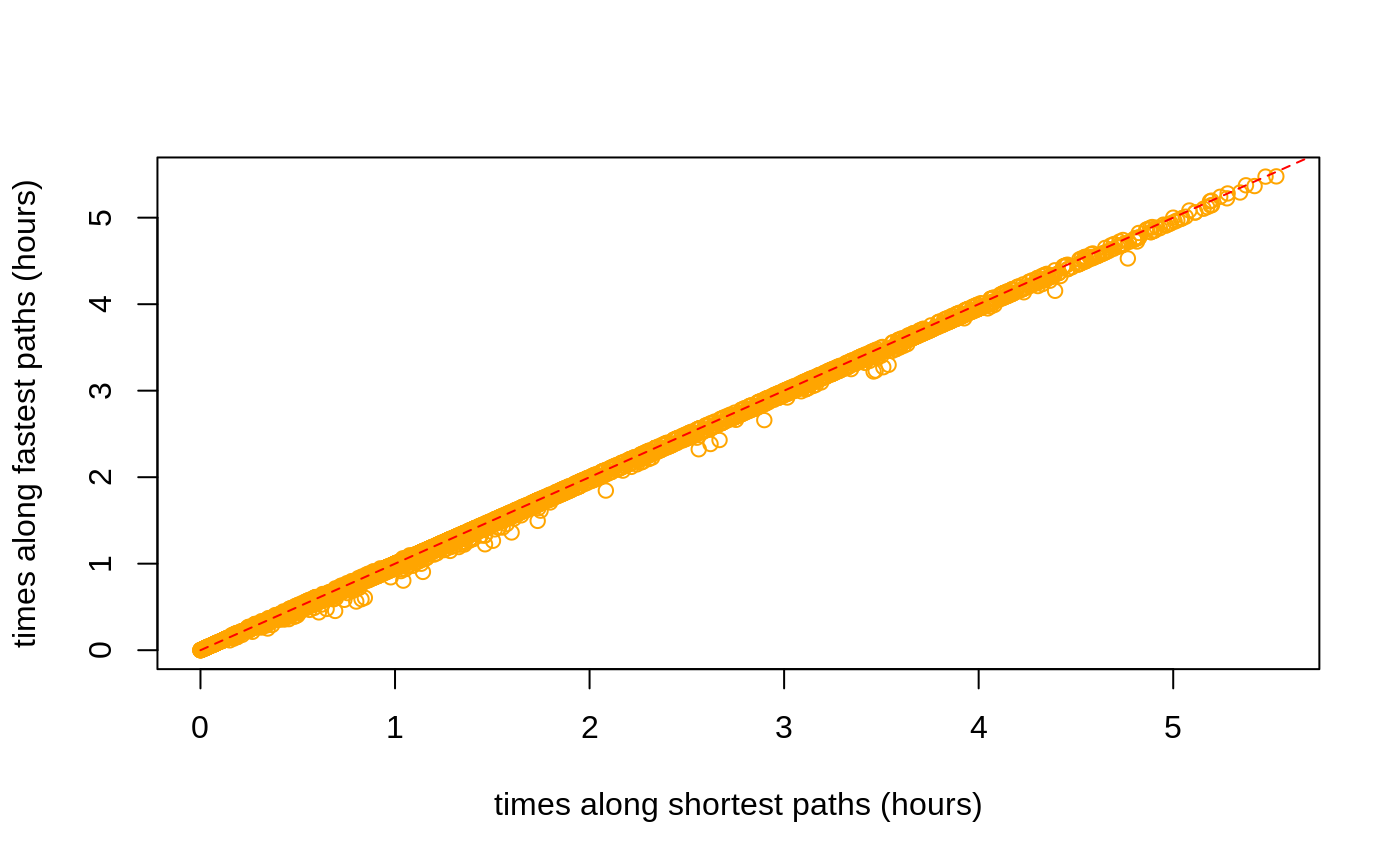
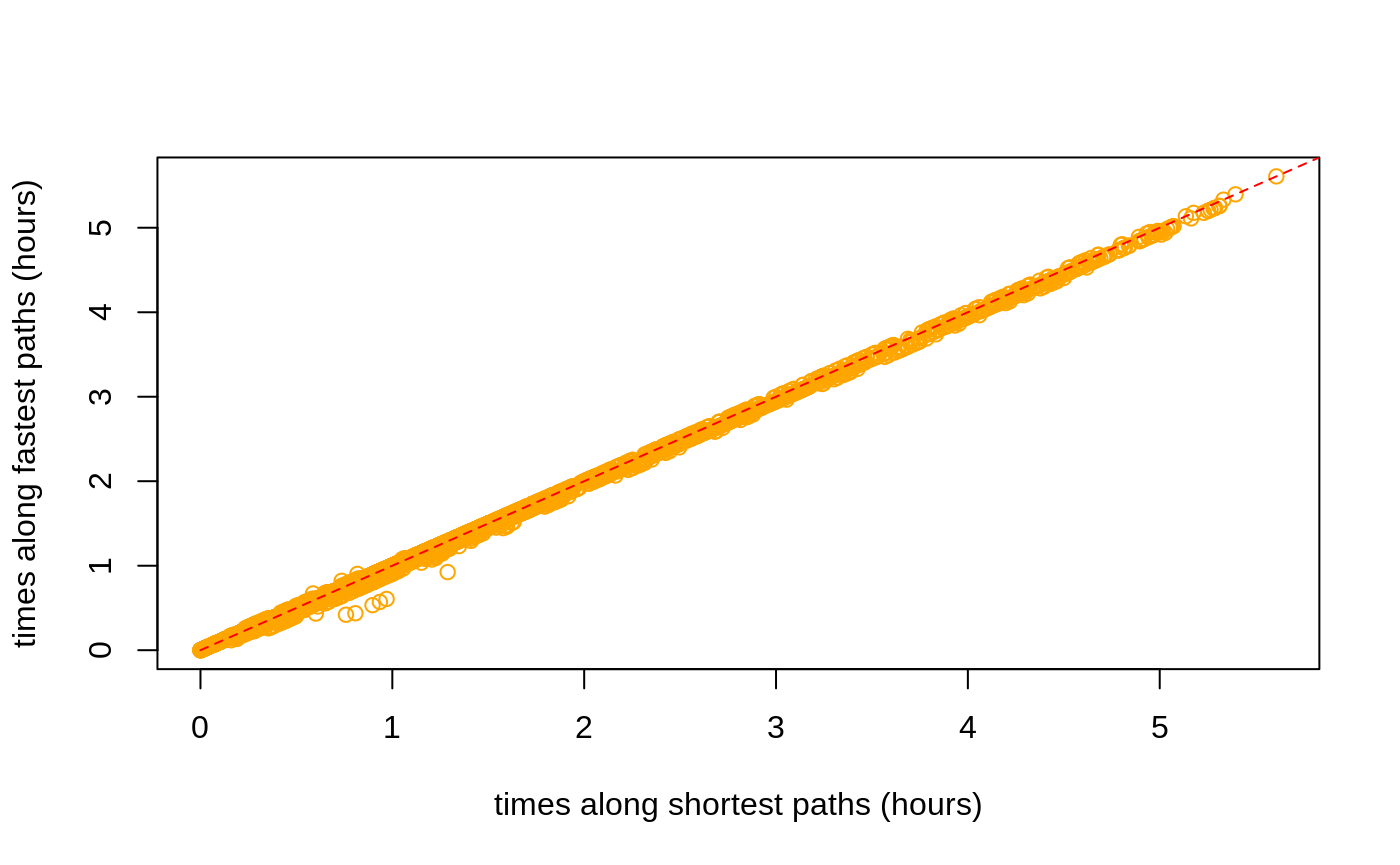
Built site for dodgr: 0.2.1.1@aa2d3c2

diff --git a/articles/dodgr.html b/articles/dodgr.html
@@ -70,7 +70,7 @@
       <h1>dodgr</h1>
                         <h4 class="author">Mark Padgham</h4>
             
-            <h4 class="date">2019-09-18</h4>
+            <h4 class="date">2019-09-22</h4>
       
       <small class="dont-index">Source: <a href="https://github.com/ATFutures/dodgr/blob/master/vignettes/dodgr.Rmd"><code>vignettes/dodgr.Rmd</code></a></small>
       <div class="hidden name"><code>dodgr.Rmd</code></div>
@@ -423,31 +423,31 @@ Figure 2: A <strong>dual</strong>-weighted, directed graph in which the weights 
 <p>The comparisons are actually made on a randomly selected sub-component of the graph containing a defined number of vertices (with a default of 1,000, or the entire graph if it contains fewer than 1,000 vertices).</p>
 <div class="sourceCode" id="cb76"><pre class="sourceCode r"><code class="sourceCode r"><a class="sourceLine" id="cb76-1" data-line-number="1"><span class="kw"><a href="../reference/compare_heaps.html">compare_heaps</a></span> (graph, <span class="dt">nverts =</span> <span class="dv">1000</span>, <span class="dt">replications =</span> <span class="dv">1</span>)</a></code></pre></div>
 <pre><code>##                                                                                   test
+## 11        d &lt;- dodgr_dists(graph_contracted, from = from_id, to = to_id, heap = "set")
 ## 6       d &lt;- dodgr_dists(graph_contracted, from = from_id, to = to_id, heap = "BHeap")
+## 7       d &lt;- dodgr_dists(graph_contracted, from = from_id, to = to_id, heap = "FHeap")
 ## 8     d &lt;- dodgr_dists(graph_contracted, from = from_id, to = to_id, heap = "TriHeap")
 ## 9  d &lt;- dodgr_dists(graph_contracted, from = from_id, to = to_id, heap = "TriHeapExt")
 ## 10     d &lt;- dodgr_dists(graph_contracted, from = from_id, to = to_id, heap = "Heap23")
-## 11        d &lt;- dodgr_dists(graph_contracted, from = from_id, to = to_id, heap = "set")
-## 7       d &lt;- dodgr_dists(graph_contracted, from = from_id, to = to_id, heap = "FHeap")
 ## 1                  d &lt;- dodgr_dists(graph, from = from_id, to = to_id, heap = "BHeap")
 ## 12                  d &lt;- igraph::distances(igr, v = from_id, to = to_id, mode = "out")
 ## 2                  d &lt;- dodgr_dists(graph, from = from_id, to = to_id, heap = "FHeap")
-## 5                 d &lt;- dodgr_dists(graph, from = from_id, to = to_id, heap = "Heap23")
 ## 3                d &lt;- dodgr_dists(graph, from = from_id, to = to_id, heap = "TriHeap")
 ## 4             d &lt;- dodgr_dists(graph, from = from_id, to = to_id, heap = "TriHeapExt")
+## 5                 d &lt;- dodgr_dists(graph, from = from_id, to = to_id, heap = "Heap23")
 ##    replications elapsed relative user.self sys.self user.child sys.child
-## 6             1   0.003    1.000     0.003        0          0         0
-## 8             1   0.003    1.000     0.004        0          0         0
-## 9             1   0.003    1.000     0.003        0          0         0
-## 10            1   0.003    1.000     0.005        0          0         0
 ## 11            1   0.003    1.000     0.004        0          0         0
-## 7             1   0.004    1.333     0.004        0          0         0
-## 1             1   0.010    3.333     0.013        0          0         0
-## 12            1   0.010    3.333     0.011        0          0         0
-## 2             1   0.013    4.333     0.021        0          0         0
-## 5             1   0.014    4.667     0.023        0          0         0
-## 3             1   0.015    5.000     0.024        0          0         0
-## 4             1   0.015    5.000     0.015        0          0         0</code></pre>
+## 6             1   0.004    1.333     0.004        0          0         0
+## 7             1   0.004    1.333     0.005        0          0         0
+## 8             1   0.004    1.333     0.006        0          0         0
+## 9             1   0.004    1.333     0.005        0          0         0
+## 10            1   0.004    1.333     0.005        0          0         0
+## 1             1   0.011    3.667     0.017        0          0         0
+## 12            1   0.015    5.000     0.015        0          0         0
+## 2             1   0.017    5.667     0.028        0          0         0
+## 3             1   0.020    6.667     0.033        0          0         0
+## 4             1   0.021    7.000     0.021        0          0         0
+## 5             1   0.021    7.000     0.033        0          0         0</code></pre>
 <p>The key column of that <code>data.frame</code> is <code>relative</code>, which quantifies the relative performance of each test in relation to the best which is given a score of 1. <code>dodgr</code> using the default <code>heap = "BHeap"</code>, which is a binary heap priority queue, performs faster than <a href="https://igraph.org"><code>igraph</code></a> <span class="citation">(Csardi and Nepusz 2006)</span> for these graphs. Different kind of graphs will perform differently with different priority queue structures, and this function enables users to empirically discern the optimal heap for their kind of graph.</p>
 <p>Note, however, that this is not an entirely fair comparison, because <code>dodgr</code> calculates dual-weighted distances, whereas <a href="https://igraph.org"><code>igraph</code></a>—and indeed all other <strong>R</strong> packages—only directly calculate distances based on a single set of weights. Implementing dual-weighted routing in these cases requires explicitly re-tracing all paths and summing the second set of weights along each path. A time comparison in that case would be very strongly in favour of <code>dodgr</code>. Moreover, <code>dodgr</code> can convert graphs to contracted form through removing redundant vertices, as detailed in the following section. Doing so greatly improves performance with respect to <a href="https://igraph.org"><code>igraph</code></a>.</p>
 <p>For those wishing to do explicit comparisons themselves, the following code generates the <a href="https://igraph.org"><code>igraph</code></a> equivalent of <a href="https://atfutures.github.io/dodgr/reference/dodgr_distances.html"><code><a href="../reference/dodgr_distances.html">dodgr_distances()</a></code></a>, although of course for single-weighted graphs only:</p>
@@ -482,10 +482,10 @@ Figure 3: <strong>(A)</strong> Vertex#2 is redundant for routing calculations fr
 <a class="sourceLine" id="cb84-5" data-line-number="5">                       d2 &lt;-<span class="st"> </span><span class="kw"><a href="../reference/dodgr_dists.html">dodgr_dists</a></span> (graph, <span class="dt">from =</span> from, <span class="dt">to =</span> to),</a>
 <a class="sourceLine" id="cb84-6" data-line-number="6">                       <span class="dt">replications =</span> <span class="dv">2</span>)</a></code></pre></div>
 <pre><code>##                                             test replications elapsed
-## 2 d2 &lt;- dodgr_dists(graph, from = from, to = to)            2   0.044
-## 1   d2 &lt;- dodgr_dists(grc, from = from, to = to)            2   0.009
+## 2 d2 &lt;- dodgr_dists(graph, from = from, to = to)            2   0.043
+## 1   d2 &lt;- dodgr_dists(grc, from = from, to = to)            2   0.008
 ##   relative user.self sys.self user.child sys.child
-## 2    4.889     0.063        0          0         0
+## 2    5.375     0.062        0          0         0
 ## 1    1.000     0.011        0          0         0</code></pre>
 <p>And contracting the graph has a similar effect of speeding up pairwise routing between these 100 points. All routing algorithms scale non-linearly with size, and relative improvements in efficiency will be even greater for larger graphs.</p>
 <div id="routing-on-contracted-graphs" class="section level2">
@@ -498,11 +498,11 @@ Figure 3: <strong>(A)</strong> Vertex#2 is redundant for routing calculations fr
 <pre><code>## [1] 672</code></pre>
 <div class="sourceCode" id="cb88"><pre class="sourceCode r"><code class="sourceCode r"><a class="sourceLine" id="cb88-1" data-line-number="1">verts &lt;-<span class="st"> </span><span class="kw"><a href="https://rdrr.io/r/base/sample.html">sample</a></span> (<span class="kw"><a href="../reference/dodgr_vertices.html">dodgr_vertices</a></span> (graph)<span class="op">$</span>id, <span class="dt">size =</span> <span class="dv">100</span>)</a>
 <a class="sourceLine" id="cb88-2" data-line-number="2"><span class="kw"><a href="https://rdrr.io/r/utils/head.html">head</a></span> (verts) <span class="co"># a character vector</span></a></code></pre></div>
-<pre><code>## [1] "2398957642" "977472672"  "3544918735" "2398957672" "1143452081"
-## [6] "4474520384"</code></pre>
+<pre><code>## [1] "339318498"  "977472618"  "980499593"  "1376768565" "977473148" 
+## [6] "2398957887"</code></pre>
 <div class="sourceCode" id="cb90"><pre class="sourceCode r"><code class="sourceCode r"><a class="sourceLine" id="cb90-1" data-line-number="1">grc &lt;-<span class="st"> </span><span class="kw"><a href="../reference/dodgr_contract_graph.html">dodgr_contract_graph</a></span> (graph, verts)</a>
 <a class="sourceLine" id="cb90-2" data-line-number="2"><span class="kw"><a href="https://rdrr.io/r/base/nrow.html">nrow</a></span> (grc)</a></code></pre></div>
-<pre><code>## [1] 855</code></pre>
+<pre><code>## [1] 836</code></pre>
 <p>Retaining the nominated vertices yields a graph with considerably more edges than the fully contracted graph excluding these vertices. The <a href="https://atfutures.github.io/dodgr/reference/dodgr_distances.html"><code><a href="../reference/dodgr_distances.html">dodgr_distances()</a></code></a> function can be applied to the latter graph to obtain accurate distances precisely routed between these points, yet using the speed advantages of graph contraction.</p>
 </div>
 </div>
@@ -543,41 +543,24 @@ Figure 3: <strong>(A)</strong> Vertex#2 is redundant for routing calculations fr
 <pre><code>## [1] 10</code></pre>
 <p>The result (<code>dp</code>) is a list of 10 items, each of which contains 5 vectors. An example is,</p>
 <div class="sourceCode" id="cb97"><pre class="sourceCode r"><code class="sourceCode r"><a class="sourceLine" id="cb97-1" data-line-number="1">dp [[<span class="dv">1</span>]] [[<span class="dv">1</span>]]</a></code></pre></div>
-<pre><code>##   [1] "3921512069" "3921512075" "3921512070" "3921512068" "2627428643"
-##   [6] "2627428645" "2627428641" "2627428646" "2627428638" "2627428651"
-##  [11] "2627430653" "2627428637" "2627428647" "2627428629" "2627428627"
-##  [16] "2627428628" "2627428631" "2627428633" "2627428625" "1143452404"
-##  [21] "1143452283" "5351394648" "1143452205" "5351394647" "2627430641"
-##  [26] "5351394646" "1143452459" "5351394645" "1143452325" "1143452160"
-##  [31] "1143452081" "1143452400" "1143452281" "1143452128" "1143452546"
-##  [36] "2718034071" "1143452348" "1143452226" "5351394643" "5351394644"
-##  [41] "1143452094" "1143452492" "1143452303" "1143452181" "5351394642"
-##  [46] "1143452067" "1143452423" "5351394641" "1143452244" "1143452137"
-##  [51] "5351394448" "1143452509" "977473143"  "977472907"  "977473010" 
-##  [56] "5351394447" "977472776"  "977472811"  "4552228189" "2627480728"
-##  [61] "6410121123" "977473047"  "1388483451" "977472969"  "977473072" 
-##  [66] "977472830"  "977472872"  "1388483120" "1388483756" "977472640" 
-##  [71] "977472736"  "1388482235" "1388482943" "1204772663" "1204772860"
-##  [76] "1388483168" "1204772888" "1204772807" "1204772748" "1388483001"
-##  [81] "1388482296" "1388483784" "1204772914" "1204772726" "1204772895"
-##  [86] "3921522987" "3921522989" "3921522990" "3921522991" "3921522974"
-##  [91] "3921522992" "3921523008" "3921522993" "3921522994" "3921522995"
-##  [96] "3921522996" "3921522998" "3921522997" "3921522999" "3921523004"
-## [101] "3921523000" "3921523001" "3921523002" "3921523003" "3921523005"
-## [106] "3921523006" "3921523007" "3921523009" "3921522979" "5351564644"
-## [111] "3921523011" "5351564643" "3921522978" "5351564646" "5351564645"
-## [116] "5351564647"</code></pre>
+<pre><code>##  [1] "4035136507" "4035136506" "4035136505" "4035136504" "4035136503"
+##  [6] "2627477006" "338512693"  "2398957844" "2398957842" "2627476980"
+## [11] "2627476985" "339574165"  "4474520806" "1604033316" "339574164" 
+## [16] "4474520807" "339574161"  "4474520808" "339574160"  "1715805190"
+## [21] "339574159"  "339574158"  "1715805191" "339574157"  "339574156" 
+## [26] "339574155"  "339574154"  "339574168"  "339574169"  "339574170" 
+## [31] "339574171"  "339574172"  "339574173"  "339574174"</code></pre>
 <p>For spatial graphs, the coordinates of these paths can be obtained by extracting the vertices with <code><a href="../reference/dodgr_vertices.html">dodgr_vertices()</a></code> and matching the vertex IDs:</p>
 <div class="sourceCode" id="cb99"><pre class="sourceCode r"><code class="sourceCode r"><a class="sourceLine" id="cb99-1" data-line-number="1">verts &lt;-<span class="st"> </span><span class="kw"><a href="../reference/dodgr_vertices.html">dodgr_vertices</a></span> (graph)</a>
 <a class="sourceLine" id="cb99-2" data-line-number="2">path1 &lt;-<span class="st"> </span>verts [<span class="kw"><a href="https://rdrr.io/r/base/match.html">match</a></span> (dp [[<span class="dv">1</span>]] [[<span class="dv">1</span>]], verts<span class="op">$</span>id), ]</a>
 <a class="sourceLine" id="cb99-3" data-line-number="3"><span class="kw"><a href="https://rdrr.io/r/utils/head.html">head</a></span> (path1)</a></code></pre></div>
 <pre><code>##              id        x        y component    n
-## 4944 3921512069 76.46159 15.34252         2 2448
-## 4942 3921512075 76.46174 15.34282         2 2447
-## 4940 3921512070 76.46170 15.34313         2 2446
-## 2378 3921512068 76.46173 15.34351         2 1200
-## 2376 2627428643 76.46182 15.34357         2 1199
-## 2374 2627428645 76.46187 15.34370         2 1198</code></pre>
+## 5192 4035136507 76.45763 15.33052         1 2564
+## 5190 4035136506 76.45756 15.33062         1 2563
+## 5188 4035136505 76.45751 15.33069         1 2562
+## 5186 4035136504 76.45746 15.33076         1 2561
+## 1408 4035136503 76.45739 15.33090         1  716
+## 1406 2627477006 76.45734 15.33089         1  715</code></pre>
 <p>Paths calculated on contracted graphs will of course have fewer vertices than those calculated on full graphs.</p>
 </div>
 <div id="aggregated-flows" class="section level1">
@@ -611,17 +594,17 @@ Figure 3: <strong>(A)</strong> Vertex#2 is redundant for routing calculations fr
 ## 4 15.34173   8.888670    9.87630 unclassified 28565950         1  2.133281
 ## 5 15.34179   9.326536   10.36282 unclassified 28565950         1  2.238369
 ## 6 15.34174   9.326536   10.36282 unclassified 28565950         1  2.238369
-##   time_weighted    flow
-## 1     35.317912 54.0298
-## 2     35.317912  0.0000
-## 3      2.370312 54.0298
-## 4      2.370312  0.0000
-## 5      2.487076 54.0298
-## 6      2.487076  0.0000</code></pre>
+##   time_weighted flow
+## 1     35.317912    0
+## 2     35.317912    0
+## 3      2.370312    0
+## 4      2.370312    0
+## 5      2.487076    0
+## 6      2.487076    0</code></pre>
 <p>Most flows are zero because they have only been calculated between very few points in the graph.</p>
 <div class="sourceCode" id="cb104"><pre class="sourceCode r"><code class="sourceCode r"><a class="sourceLine" id="cb104-1" data-line-number="1"><span class="kw"><a href="https://rdrr.io/r/base/summary.html">summary</a></span> (graph_f<span class="op">$</span>flow)</a></code></pre></div>
 <pre><code>##    Min. 1st Qu.  Median    Mean 3rd Qu.    Max. 
-##   0.000   0.000   0.000   3.104   0.000  81.398</code></pre>
+##    0.00    0.00    0.00    7.33    0.00  109.08</code></pre>
 </div>
 <div id="flow-dispersal" class="section level2">
 <h2 class="hasAnchor">
@@ -630,8 +613,8 @@ Figure 3: <strong>(A)</strong> Vertex#2 is redundant for routing calculations fr
 <div class="sourceCode" id="cb106"><pre class="sourceCode r"><code class="sourceCode r"><a class="sourceLine" id="cb106-1" data-line-number="1">dens &lt;-<span class="st"> </span><span class="kw"><a href="https://rdrr.io/r/base/rep.html">rep</a></span> (<span class="dv">1</span>, <span class="kw"><a href="https://rdrr.io/r/base/length.html">length</a></span> (from)) <span class="co"># uniform densities</span></a>
 <a class="sourceLine" id="cb106-2" data-line-number="2">graph_f &lt;-<span class="st"> </span><span class="kw"><a href="../reference/dodgr_flows_disperse.html">dodgr_flows_disperse</a></span> (graph, <span class="dt">from =</span> from, <span class="dt">dens =</span> dens)</a>
 <a class="sourceLine" id="cb106-3" data-line-number="3"><span class="kw"><a href="https://rdrr.io/r/base/summary.html">summary</a></span> (graph_f<span class="op">$</span>flow)</a></code></pre></div>
-<pre><code>##    Min. 1st Qu.  Median    Mean 3rd Qu.    Max. 
-##  0.0000  0.0000  0.0240  0.1530  0.2065  1.3402</code></pre>
+<pre><code>##     Min.  1st Qu.   Median     Mean  3rd Qu.     Max. 
+## 0.000000 0.000000 0.005045 0.130010 0.148497 2.161776</code></pre>
 </div>
 <div id="merging-directed-flows" class="section level2">
 <h2 class="hasAnchor">
@@ -641,7 +624,7 @@ Figure 3: <strong>(A)</strong> Vertex#2 is redundant for routing calculations fr
 <p>Resultant graphs produced by <a href="https://atfutures.github.io/dodgr/reference/merge_directed_flows.html"><code><a href="../reference/merge_directed_flows.html">merge_directed_flows()</a></code></a> only include those edges having non-zero flows, and so:</p>
 <div class="sourceCode" id="cb109"><pre class="sourceCode r"><code class="sourceCode r"><a class="sourceLine" id="cb109-1" data-line-number="1"><span class="kw"><a href="https://rdrr.io/r/base/nrow.html">nrow</a></span> (graph_f); <span class="kw"><a href="https://rdrr.io/r/base/nrow.html">nrow</a></span> (graph_undir) <span class="co"># the latter is much smaller</span></a></code></pre></div>
 <pre><code>## [1] 5973</code></pre>
-<pre><code>## [1] 2761</code></pre>
+<pre><code>## [1] 2799</code></pre>
 <p>The resultant graph can readily be merged with the original graph to regain the original data on vertex coordinates through</p>
 <div class="sourceCode" id="cb112"><pre class="sourceCode r"><code class="sourceCode r"><a class="sourceLine" id="cb112-1" data-line-number="1">graph &lt;-<span class="st"> </span>graph [graph_undir<span class="op">$</span>edge_id, ]</a>
 <a class="sourceLine" id="cb112-2" data-line-number="2">graph<span class="op">$</span>flow &lt;-<span class="st"> </span>graph_undir<span class="op">$</span>flow</a></code></pre></div>

diff --git a/articles/times.html b/articles/times.html
@@ -70,7 +70,7 @@
       <h1>Street networks and time-based routing</h1>
                         <h4 class="author">Mark Padgham</h4>
             
-            <h4 class="date">2019-09-18</h4>
+            <h4 class="date">2019-09-22</h4>
       
       <small class="dont-index">Source: <a href="https://github.com/ATFutures/dodgr/blob/master/vignettes/times.Rmd"><code>vignettes/times.Rmd</code></a></small>
       <div class="hidden name"><code>times.Rmd</code></div>
@@ -230,11 +230,11 @@ Figure 1: Graph modification to account for turn penalties, which introduces the
 <p><img src="times_files/figure-html/shortest-vs-fastest-1.png" width="700"></p>
 <p>The average distance between the two (in metres) is:</p>
 <div class="sourceCode" id="cb9"><pre class="sourceCode r"><code class="sourceCode r"><a class="sourceLine" id="cb9-1" data-line-number="1"><span class="kw"><a href="https://rdrr.io/r/base/mean.html">mean</a></span> (<span class="kw"><a href="https://rdrr.io/r/base/MathFun.html">abs</a></span> (d_time <span class="op">-</span><span class="st"> </span>d_dist), <span class="dt">na.rm =</span> <span class="ot">TRUE</span>)</a></code></pre></div>
-<pre><code>## [1] 54.77307</code></pre>
+<pre><code>## [1] 51.45989</code></pre>
 <p>The plot reveals that shortest distances are indeed somewhat shorter than distances along fastest paths, but also that some fastest paths are actually shorter than shortest paths:</p>
 <div class="sourceCode" id="cb11"><pre class="sourceCode r"><code class="sourceCode r"><a class="sourceLine" id="cb11-1" data-line-number="1">index &lt;-<span class="st"> </span><span class="kw"><a href="https://rdrr.io/r/base/which.html">which</a></span> (<span class="op">!</span><span class="kw"><a href="https://rdrr.io/r/base/NA.html">is.na</a></span> (d_time) <span class="op">&amp;</span><span class="st"> </span><span class="op">!</span><span class="kw"><a href="https://rdrr.io/r/base/NA.html">is.na</a></span> (d_dist))</a>
 <a class="sourceLine" id="cb11-2" data-line-number="2"><span class="kw"><a href="https://rdrr.io/r/base/length.html">length</a></span> (<span class="kw"><a href="https://rdrr.io/r/base/which.html">which</a></span> (d_time [index] <span class="op">&lt;</span><span class="st"> </span>d_dist [index])) <span class="op">/</span><span class="st"> </span><span class="kw"><a href="https://rdrr.io/r/base/length.html">length</a></span> (index)</a></code></pre></div>
-<pre><code>## [1] 0.01320193</code></pre>
+<pre><code>## [1] 0.01769406</code></pre>
 <p>While <code>dodgr</code> and indeed all routing engines attempt to maximally reconcile differences between fastest and shortest routes, there nevertheless remain important discrepancies. Foremost among these, and the primary reason why some fastest routes may in fact be shorter than shortest routes, is that fastest routes allocate preferences for different kinds of way based both on the <code>value</code> column in the <code>weighting_profiles$weighting_profiles</code> table illustrated above, and on the actual maximum speed of a given edge, which itself may be a combination of maximum speeds as specified in OSM itself, maximum speeds from the <code>weighting_profiles$weighting_profiles</code> table, or values specific to a given surface. The result is that some unique combination of maximum speeds along a network may lead to <em>fastest</em> routes being preferentially directed along a path that is actually shorter than the direct shortest path which is calculated independent of maximum speed values.</p>
 <p>Such discrepancies are important in understanding differences in routes <em>times</em> calculated along shortest versus fastest paths. These times can be calculated (in seconds) with the <a href="https://atfutures.github.io/dodgr/reference/dodgr_times.html"><code><a href="../reference/dodgr_times.html">dodgr_times()</a></code></a> function:</p>
 <div class="sourceCode" id="cb13"><pre class="sourceCode r"><code class="sourceCode r"><a class="sourceLine" id="cb13-1" data-line-number="1">t_dist &lt;-<span class="st"> </span><span class="kw"><a href="../reference/dodgr_times.html">dodgr_times</a></span> (graph, <span class="dt">from =</span> from, <span class="dt">to =</span> to, <span class="dt">shortest =</span> <span class="ot">TRUE</span>) <span class="co"># default</span></a>
@@ -245,11 +245,11 @@ Figure 1: Graph modification to account for turn penalties, which introduces the
 <a class="sourceLine" id="cb13-6" data-line-number="6"><span class="kw"><a href="https://rdrr.io/r/graphics/lines.html">lines</a></span> (<span class="dv">0</span><span class="op">:</span><span class="dv">100</span>, <span class="dv">0</span><span class="op">:</span><span class="dv">100</span>, <span class="dt">col =</span> <span class="st">"red"</span>, <span class="dt">lty =</span> <span class="dv">2</span>)</a></code></pre></div>
 <p><img src="times_files/figure-html/shortest-vs-fastest-times-1.png" width="700"></p>
 <div class="sourceCode" id="cb14"><pre class="sourceCode r"><code class="sourceCode r"><a class="sourceLine" id="cb14-1" data-line-number="1"><span class="kw"><a href="https://rdrr.io/r/base/mean.html">mean</a></span> (<span class="kw"><a href="https://rdrr.io/r/base/MathFun.html">abs</a></span> (t_time <span class="op">-</span><span class="st"> </span>t_dist), <span class="dt">na.rm =</span> <span class="ot">TRUE</span>)</a></code></pre></div>
-<pre><code>## [1] 50.73745</code></pre>
+<pre><code>## [1] 49.79871</code></pre>
 <p>As above, times along fastest paths are generally less than times along shortest paths, although there are again a few exceptions:</p>
 <div class="sourceCode" id="cb16"><pre class="sourceCode r"><code class="sourceCode r"><a class="sourceLine" id="cb16-1" data-line-number="1">index &lt;-<span class="st"> </span><span class="kw"><a href="https://rdrr.io/r/base/which.html">which</a></span> (<span class="op">!</span><span class="kw"><a href="https://rdrr.io/r/base/NA.html">is.na</a></span> (t_time) <span class="op">&amp;</span><span class="st"> </span><span class="op">!</span><span class="kw"><a href="https://rdrr.io/r/base/NA.html">is.na</a></span> (t_dist))</a>
 <a class="sourceLine" id="cb16-2" data-line-number="2"><span class="kw"><a href="https://rdrr.io/r/base/length.html">length</a></span> (<span class="kw"><a href="https://rdrr.io/r/base/which.html">which</a></span> (t_dist [index] <span class="op">&lt;</span><span class="st"> </span>t_time [index])) <span class="op">/</span><span class="st"> </span><span class="kw"><a href="https://rdrr.io/r/base/length.html">length</a></span> (index)</a></code></pre></div>
-<pre><code>## [1] 0.0165489</code></pre>
+<pre><code>## [1] 0.01255708</code></pre>
 <p>These results demonstrate how the combination of the <a href="https://atfutures.github.io/dodgr/reference/dodgr_distances.html"><code><a href="../reference/dodgr_distances.html">dodgr_distances()</a></code></a> and <a href="https://atfutures.github.io/dodgr/reference/dodgr_times.html"><code><a href="../reference/dodgr_times.html">dodgr_times()</a></code></a> functions enable calculation of both distances and times along both shortest and fastest paths.</p>
 <div id="time-based-paths-and-flow-aggregation" class="section level2">
 <h2 class="hasAnchor">

diff --git a/reference/compare_heaps.html b/reference/compare_heaps.html
@@ -157,11 +157,11 @@ fair comparisons, run only once or re-start the current R session.</p>
     <pre class="examples"><div class='input'><span class='no'>graph</span> <span class='kw'>&lt;-</span> <span class='fu'><a href='weight_streetnet.html'>weight_streetnet</a></span> (<span class='no'>hampi</span>)
 <span class='fu'>compare_heaps</span> (<span class='no'>graph</span>, <span class='kw'>nverts</span> <span class='kw'>=</span> <span class='fl'>1000</span>, <span class='kw'>replications</span> <span class='kw'>=</span> <span class='fl'>1</span>)</div><div class='output co'>#&gt;                                                                                   test
 #&gt; 6       d &lt;- dodgr_dists(graph_contracted, from = from_id, to = to_id, heap = "BHeap")
+#&gt; 7       d &lt;- dodgr_dists(graph_contracted, from = from_id, to = to_id, heap = "FHeap")
 #&gt; 8     d &lt;- dodgr_dists(graph_contracted, from = from_id, to = to_id, heap = "TriHeap")
 #&gt; 11        d &lt;- dodgr_dists(graph_contracted, from = from_id, to = to_id, heap = "set")
-#&gt; 7       d &lt;- dodgr_dists(graph_contracted, from = from_id, to = to_id, heap = "FHeap")
-#&gt; 9  d &lt;- dodgr_dists(graph_contracted, from = from_id, to = to_id, heap = "TriHeapExt")
 #&gt; 10     d &lt;- dodgr_dists(graph_contracted, from = from_id, to = to_id, heap = "Heap23")
+#&gt; 9  d &lt;- dodgr_dists(graph_contracted, from = from_id, to = to_id, heap = "TriHeapExt")
 #&gt; 1                  d &lt;- dodgr_dists(graph, from = from_id, to = to_id, heap = "BHeap")
 #&gt; 12                  d &lt;- igraph::distances(igr, v = from_id, to = to_id, mode = "out")
 #&gt; 2                  d &lt;- dodgr_dists(graph, from = from_id, to = to_id, heap = "FHeap")
@@ -169,18 +169,18 @@ fair comparisons, run only once or re-start the current R session.</p>
 #&gt; 3                d &lt;- dodgr_dists(graph, from = from_id, to = to_id, heap = "TriHeap")
 #&gt; 4             d &lt;- dodgr_dists(graph, from = from_id, to = to_id, heap = "TriHeapExt")
 #&gt;    replications elapsed relative user.self sys.self user.child sys.child
-#&gt; 6             1   0.003    1.000     0.004        0          0         0
-#&gt; 8             1   0.003    1.000     0.006        0          0         0
-#&gt; 11            1   0.003    1.000     0.004        0          0         0
-#&gt; 7             1   0.004    1.333     0.005        0          0         0
-#&gt; 9             1   0.004    1.333     0.004        0          0         0
-#&gt; 10            1   0.004    1.333     0.005        0          0         0
-#&gt; 1             1   0.011    3.667     0.016        0          0         0
-#&gt; 12            1   0.014    4.667     0.014        0          0         0
-#&gt; 2             1   0.016    5.333     0.026        0          0         0
-#&gt; 5             1   0.018    6.000     0.031        0          0         0
-#&gt; 3             1   0.019    6.333     0.032        0          0         0
-#&gt; 4             1   0.020    6.667     0.020        0          0         0</div></pre>
+#&gt; 6             1   0.004     1.00     0.002    0.004          0         0
+#&gt; 7             1   0.006     1.50     0.009    0.000          0         0
+#&gt; 8             1   0.006     1.50     0.010    0.000          0         0
+#&gt; 11            1   0.006     1.50     0.007    0.000          0         0
+#&gt; 10            1   0.007     1.75     0.011    0.000          0         0
+#&gt; 9             1   0.008     2.00     0.008    0.000          0         0
+#&gt; 1             1   0.014     3.50     0.020    0.004          0         0
+#&gt; 12            1   0.022     5.50     0.022    0.000          0         0
+#&gt; 2             1   0.023     5.75     0.040    0.000          0         0
+#&gt; 5             1   0.026     6.50     0.045    0.000          0         0
+#&gt; 3             1   0.027     6.75     0.047    0.000          0         0
+#&gt; 4             1   0.028     7.00     0.028    0.000          0         0</div></pre>
   </div>
   <div class="col-md-3 hidden-xs hidden-sm" id="sidebar">
     <h2>Contents</h2>

diff --git a/reference/dodgr_sample.html b/reference/dodgr_sample.html
@@ -143,7 +143,7 @@ the requested <code>nverts</code>.</p>
     <h2 class="hasAnchor" id="examples"><a class="anchor" href="#examples"></a>Examples</h2>
     <pre class="examples"><div class='input'><span class='no'>graph</span> <span class='kw'>&lt;-</span> <span class='fu'><a href='weight_streetnet.html'>weight_streetnet</a></span> (<span class='no'>hampi</span>)
 <span class='fu'><a href='https://rdrr.io/r/base/nrow.html'>nrow</a></span> (<span class='no'>graph</span>) <span class='co'># 5,742</span></div><div class='output co'>#&gt; [1] 5973</div><div class='input'><span class='no'>graph</span> <span class='kw'>&lt;-</span> <span class='fu'>dodgr_sample</span> (<span class='no'>graph</span>, <span class='kw'>nverts</span> <span class='kw'>=</span> <span class='fl'>200</span>)
-<span class='fu'><a href='https://rdrr.io/r/base/nrow.html'>nrow</a></span> (<span class='no'>graph</span>) <span class='co'># generally around 400 edges</span></div><div class='output co'>#&gt; [1] 397</div><div class='input'><span class='fu'><a href='https://rdrr.io/r/base/nrow.html'>nrow</a></span> (<span class='fu'><a href='dodgr_vertices.html'>dodgr_vertices</a></span> (<span class='no'>graph</span>)) <span class='co'># 200</span></div><div class='output co'>#&gt; [1] 200</div></pre>
+<span class='fu'><a href='https://rdrr.io/r/base/nrow.html'>nrow</a></span> (<span class='no'>graph</span>) <span class='co'># generally around 400 edges</span></div><div class='output co'>#&gt; [1] 403</div><div class='input'><span class='fu'><a href='https://rdrr.io/r/base/nrow.html'>nrow</a></span> (<span class='fu'><a href='dodgr_vertices.html'>dodgr_vertices</a></span> (<span class='no'>graph</span>)) <span class='co'># 200</span></div><div class='output co'>#&gt; [1] 200</div></pre>
   </div>
   <div class="col-md-3 hidden-xs hidden-sm" id="sidebar">
     <h2>Contents</h2>

diff --git a/articles/benchmark.html b/articles/benchmark.html
@@ -70,7 +70,7 @@
       <h1>dodgr benchmark</h1>
                         <h4 class="author">Andreas Petutschnig</h4>
             
-            <h4 class="date">2019-09-18</h4>
+            <h4 class="date">2019-09-22</h4>
       
       <small class="dont-index">Source: <a href="https://github.com/ATFutures/dodgr/blob/master/vignettes/benchmark.Rmd"><code>vignettes/benchmark.Rmd</code></a></small>
       <div class="hidden name"><code>benchmark.Rmd</code></div>
